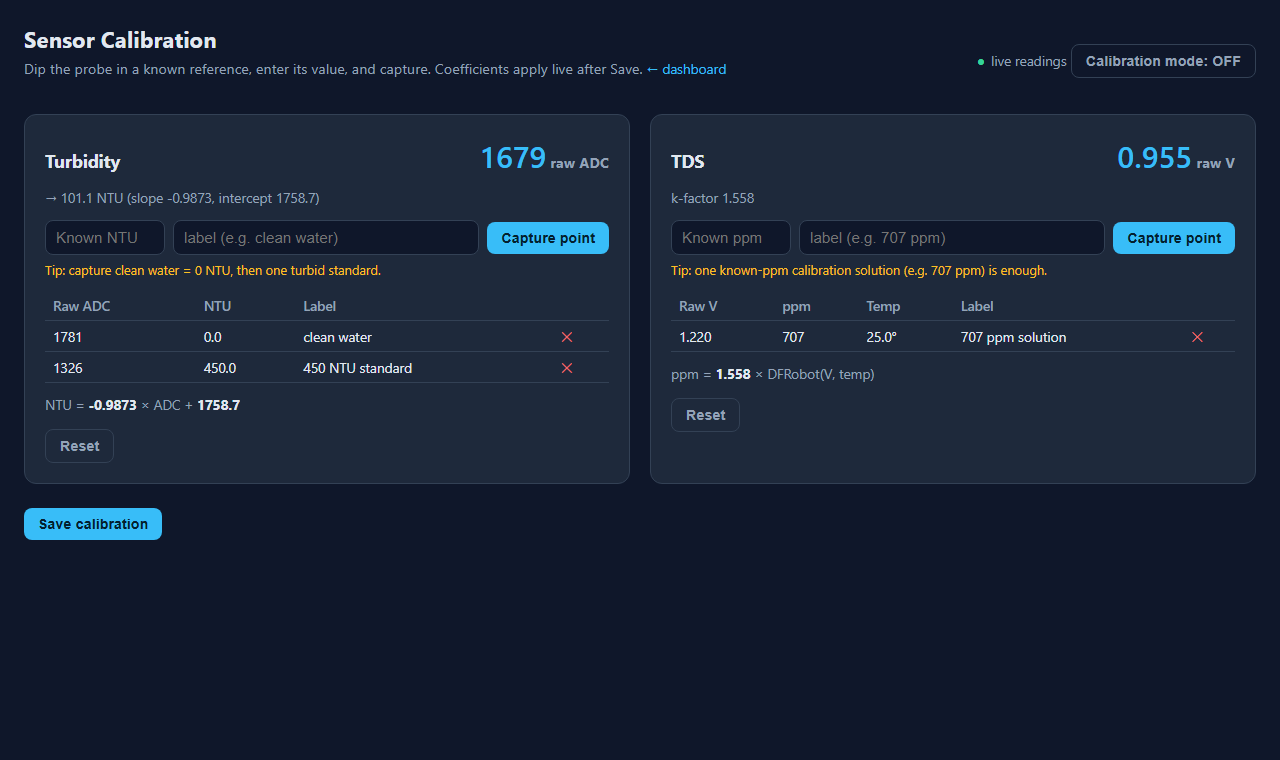
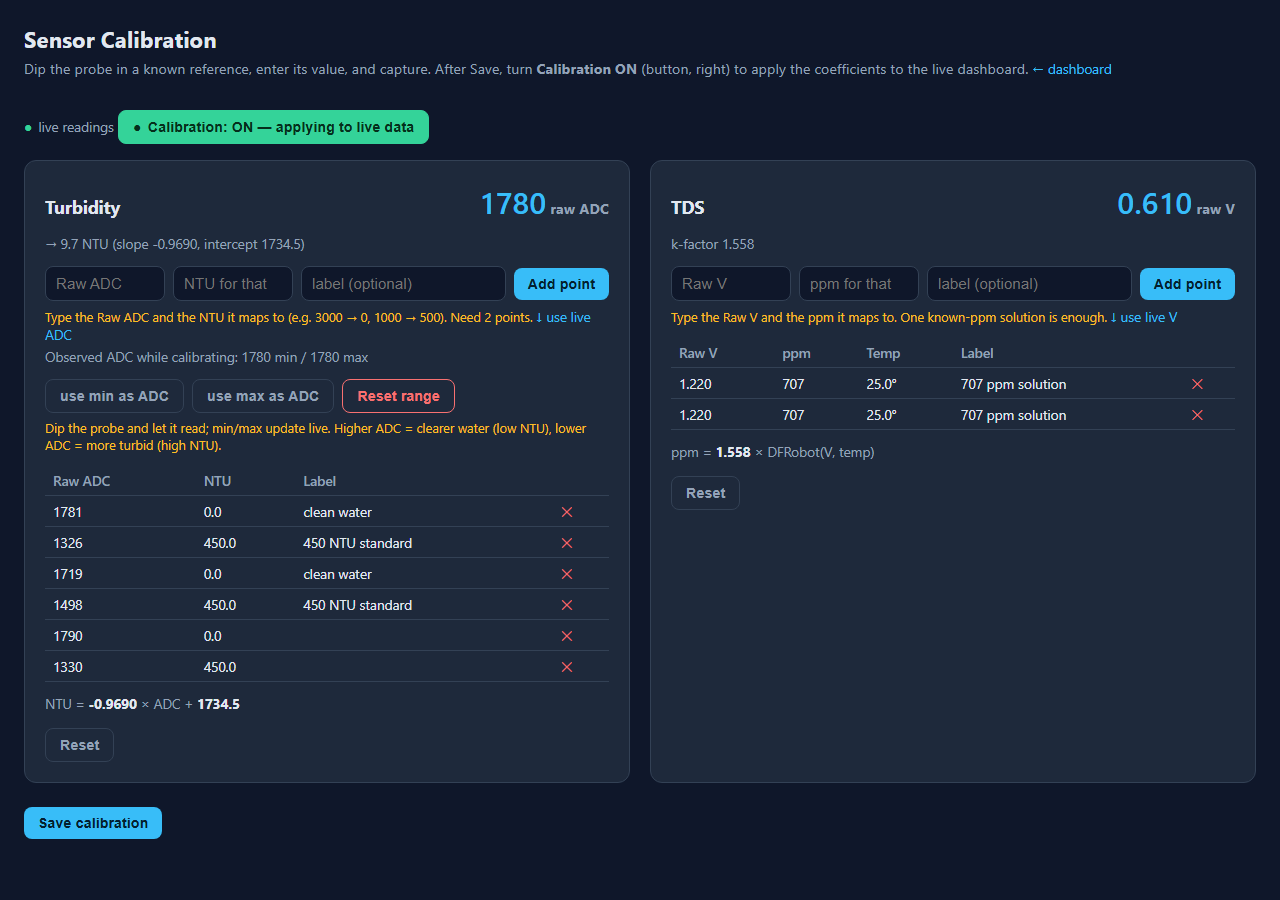
Rewrite readme.md bilingual (EN/TH) for the new Aqua Monitor UI
Replaces the old English-only readme, written for the removed
black-box/vanilla dashboards, with a bilingual English/Thai readme
describing the current single-page Aqua Monitor app: the WQI chart,
clickable detail modal, calibration tab with observed-range capture,
history table, theme toggle, and language switcher.

Also replaces docs/dashboard.png and docs/calibrate.png, which
depicted the old removed UI, with fresh screenshots of the actual
current dashboard and /calibrate page.

diff --git a/readme.md b/readme.md
@@ -1,71 +1,151 @@
-# HydroMonitor — Water Quality Checker
+# HydroMonitor — Aqua Monitor
 
-Real-time water quality monitoring for the Ang Kaew reservoir (Satit CMU, Chiang Mai).
-An ESP32 board reads temperature, turbidity, and dissolved solids from the water and sends
-them to a small server, which shows them live on a web dashboard and logs history to Google
-Sheets.
+Real-time water quality monitoring for the Ang Kaew reservoir, Chiang Mai University. An
+ESP32 board reads temperature, turbidity, and dissolved solids from the water and streams
+them to a live, bilingual (English/Thai) web dashboard.
 
-![Live dashboard](docs/dashboard.png)
+**🇬🇧 [English](#english) · 🇹🇭 [ภาษาไทย](#ภาษาไทย)**
 
-## What it's for
+---
 
-Keeping an eye on water quality continuously instead of taking occasional manual samples.
-A single sensor station in the water reports three readings every 2 seconds:
+## English
 
-- **Temperature** (°C) — DS18B20 probe
-- **Turbidity** (NTU) — how cloudy the water is
-- **TDS** (ppm) — total dissolved solids / rough conductivity
+### What it's for
 
-The dashboard shows the current values with a normal/abnormal indicator and an overall water
-quality score, and a 15-minute history graph. It's built for an educational / community
-monitoring setting where non-experts should be able to glance at a page and know if the water
-looks healthy.
+Continuous water-quality monitoring instead of occasional manual sampling. A sensor
+station in the reservoir reports three raw readings every 2 seconds — **temperature**,
+**turbidity** (cloudiness), and **TDS** (total dissolved solids) — which the backend turns
+into calibrated units, logs to Google Sheets for history, and streams live to a dashboard
+built for an educational / community-monitoring setting.
 
-## How to use
+### How to use
 
-**Run the server** (needs Python 3.11+):
+![Dashboard](docs/dashboard.png)
 
 ```bash
 pip install -r requirements.txt
-python main.py            # on Windows: set PYTHONUTF8=1 first
+cd frontend && npm install && npm run build && cd ..
+python main.py
 ```
 
-Then open **http://localhost:8080/** in a browser — that's the dashboard shown above. On the
-same network, power on the ESP32 station; it finds the server automatically (UDP discovery) and
-readings start flowing within a couple of seconds. With no station connected, the dashboard
-falls back to simulated data so the page stays populated.
+Open **http://localhost:8080/** — that's the dashboard. With no sensor station connected
+yet, the cards show "no readings yet" rather than fake numbers (this project never
+fabricates data — a disconnected sensor should look disconnected, not like the water is
+quietly changing).
 
-**Calibrate the sensors** (do this once per physical sensor, or whenever readings drift):
+The dashboard has a left sidebar with three tabs:
+
+- **Dashboard** — a Water Quality Index (WQI) trend chart with a selectable time range
+  (5 min to 24 hours) and reference lines marking the safe bands; a live 2×2 grid of
+  Temperature / Turbidity / TDS / EC cards, each with a 30-second sparkline. **Click any
+  card** to open a detail view: a bigger chart with numeric point labels and two-sided
+  (too‑high / too‑low) threshold lines, min/avg/max for the selected window, a plain-language
+  explanation of the parameter, and — only when the reading is actually out of range — its
+  likely impact and a recommendation.
+- **Calibration** — turbidity (2‑point) and TDS (single-point k-factor) calibration wired to
+  the sensors themselves: dip the probe in a known reference, capture the reading, save. No
+  firmware reflash needed. Includes an observed min/max range with one-click "use min" /
+  "use max" buttons while a turbidity probe is settling.
+- **History** — a sortable table of past readings with CSV export.
+
+A theme toggle (light/dark) and a language switcher (English ⇄ ไทย) live in the sidebar too.
+The layout is fully responsive — phone, tablet, and desktop all get a layout suited to the
+screen.
+
+A separate lightweight page at **`/calibrate`** offers the same sensor calibration in a
+single self-contained HTML file, useful for calibrating from a phone or a machine that
+doesn't need the full dashboard.
 
 ![Calibration page](docs/calibrate.png)
 
-Open **http://localhost:8080/calibrate**. Dip a probe in a known reference — clean water
-(0 NTU) or a known-ppm solution — type the known value, and click **Capture point**. Turbidity
-needs two points (clean + one turbid standard); TDS needs one known solution. The page shows
-the resulting conversion live; click **Save** and it applies to the dashboard immediately — no
-re-flashing the board. See the `sensor-calibration` skill for the full procedure and the sensor
-math.
-
-## How it works (briefly)
+### How it works, briefly
 
 ```
 ESP32 station ──raw readings──▶  FastAPI server (main.py)  ──live──▶  Web dashboard
  (temp, turbidity ADC,           - converts raw → NTU / ppm            (WebSocket)
   TDS voltage)  every 2s           using saved calibration      ──log──▶ Google Sheets
-      ▲                          - broadcasts to dashboards              (history graph
-      └── finds the server via   - serves the /calibrate page            reads back the
-          UDP broadcast                                                  last 15 min)
+      ▲                          - broadcasts to dashboards              (history, newest
+      └── finds the server via   - serves the dashboard + API            row at the top)
+          UDP broadcast
 ```
 
-- **Station** ([`firmware/esp32/esp32.ino`](firmware/esp32/esp32.ino)) reads the three sensors
-  and POSTs the **raw** values to the server. It discovers the server's IP over the network, so
-  it keeps working if the server PC's IP changes.
-- **Server** ([`main.py`](main.py), FastAPI) turns raw values into real units using the
-  calibration saved in `calibration.json`, pushes them to every open dashboard over a WebSocket,
-  and relays each reading to Google Sheets for history. Calibration lives on the server, so
-  sensors are re-tuned from the web page without touching the firmware.
-- **Dashboard** (`frontend/`, served at `/`) subscribes to the WebSocket and renders the live
-  values, indicators, and history chart.
+- **Station** ([`firmware/esp32/esp32.ino`](firmware/esp32/esp32.ino)) reads the three
+  sensors and POSTs **raw** values to the server, discovering the server's IP automatically
+  over the network so it keeps working if the server's IP changes.
+- **Server** ([`main.py`](main.py), FastAPI) converts raw values to real units using the
+  calibration saved on the server (not the firmware), pushes live readings to every open
+  dashboard, and relays each reading to Google Sheets. No fake-data fallback anywhere in
+  this chain — a real outage looks like an outage.
+- **Dashboard** ([`frontend/`](frontend/) — Vite + React + TypeScript + Tailwind) subscribes
+  to the live stream and renders everything above.
 
-More detail — wiring, the calibration math, the discovery protocol, and the Google Sheets
-relay — is in [`CLAUDE.md`](CLAUDE.md).
+More detail — wiring, the calibration math, the Google Sheets contract, the frontend's
+architecture — is in [`CLAUDE.md`](CLAUDE.md) and [`AQUA_MONITOR_PLAN.md`](AQUA_MONITOR_PLAN.md).
+
+---
+
+## ภาษาไทย
+
+### จุดประสงค์ของโปรเจกต์นี้
+
+ระบบตรวจสอบคุณภาพน้ำแบบต่อเนื่อง แทนการเก็บตัวอย่างด้วยมือเป็นครั้งคราว สถานีเซนเซอร์ในอ่างเก็บน้ำ
+ส่งค่าดิบ 3 ค่าทุก 2 วินาที ได้แก่ **อุณหภูมิ**, **ความขุ่น** (turbidity) และ **TDS**
+(ปริมาณสารละลายทั้งหมด) ซึ่งเซิร์ฟเวอร์จะแปลงเป็นหน่วยที่ปรับเทียบแล้ว บันทึกประวัติลง Google Sheets
+และส่งขึ้นแดชบอร์ดแบบเรียลไทม์ ออกแบบมาเพื่อใช้งานในบริบทการศึกษาและการติดตามของชุมชน
+
+### วิธีใช้งาน
+
+![แดชบอร์ด](docs/dashboard.png)
+
+```bash
+pip install -r requirements.txt
+cd frontend && npm install && npm run build && cd ..
+python main.py
+```
+
+เปิด **http://localhost:8080/** จะพบแดชบอร์ด หากยังไม่ได้เชื่อมต่อสถานีเซนเซอร์ การ์ดแต่ละใบจะแสดง
+"ยังไม่มีข้อมูล" แทนที่จะแสดงตัวเลขปลอม (โปรเจกต์นี้ไม่มีการสร้างข้อมูลปลอมเด็ดขาด — เซนเซอร์ที่ขาดการเชื่อมต่อ
+ควรแสดงผลว่าขาดการเชื่อมต่อจริง ไม่ใช่ทำให้ดูเหมือนน้ำกำลังเปลี่ยนแปลงอยู่)
+
+แดชบอร์ดมีแถบเมนูด้านซ้ายพร้อม 3 แท็บ:
+
+- **แดชบอร์ด** — กราฟแนวโน้มดัชนีคุณภาพน้ำ (WQI) พร้อมตัวเลือกช่วงเวลา (5 นาที ถึง 24 ชั่วโมง)
+  และเส้นอ้างอิงระบุช่วงค่าที่ปลอดภัย, ตารางการ์ดแบบเรียลไทม์ 2×2 สำหรับ อุณหภูมิ / ความขุ่น / TDS / EC
+  แต่ละใบมีกราฟเส้นย่อยของ 30 วินาทีล่าสุด **คลิกที่การ์ดใดก็ได้** เพื่อเปิดมุมมองรายละเอียด: กราฟขนาดใหญ่พร้อมตัวเลข
+  กำกับแต่ละจุดและเส้นเกณฑ์แบบสองด้าน (สูงเกินไป / ต่ำเกินไป), ค่าต่ำสุด/เฉลี่ย/สูงสุดของช่วงเวลาที่เลือก,
+  คำอธิบายค่าพารามิเตอร์แบบเข้าใจง่าย และ — เฉพาะเมื่อค่านั้นอยู่นอกช่วงปกติจริง — ผลกระทบที่อาจเกิดขึ้นพร้อมคำแนะนำ
+- **ปรับเทียบเซนเซอร์** — ปรับเทียบความขุ่น (2 จุด) และ TDS (ค่า k-factor จุดเดียว) เชื่อมกับเซนเซอร์จริง:
+  จุ่มหัววัดในสารละลายอ้างอิงที่ทราบค่า บันทึกค่าที่อ่านได้ แล้วบันทึกผล ไม่ต้องอัปโหลดเฟิร์มแวร์ใหม่
+  มีการติดตามค่าต่ำสุด/สูงสุดที่พบระหว่างการปรับเทียบ พร้อมปุ่ม "ใช้ค่าต่ำสุด" / "ใช้ค่าสูงสุด" กดครั้งเดียวใช้ได้เลย
+- **ประวัติ** — ตารางค่าที่บันทึกไว้ในอดีต เรียงลำดับได้ และส่งออกเป็นไฟล์ CSV
+
+ปุ่มสลับธีม (สว่าง/มืด) และปุ่มเปลี่ยนภาษา (English ⇄ ไทย) อยู่ในแถบเมนูด้านซ้ายเช่นกัน
+หน้าจอปรับตามขนาดอุปกรณ์ได้เต็มรูปแบบ ไม่ว่าจะเป็นมือถือ แท็บเล็ต หรือคอมพิวเตอร์
+
+นอกจากนี้ยังมีหน้าเบา ๆ แยกต่างหากที่ **`/calibrate`** สำหรับปรับเทียบเซนเซอร์ในไฟล์ HTML เดียวจบ
+เหมาะสำหรับปรับเทียบจากมือถือหรือเครื่องที่ไม่จำเป็นต้องเปิดแดชบอร์ดเต็มรูปแบบ
+
+![หน้าปรับเทียบเซนเซอร์](docs/calibrate.png)
+
+### หลักการทำงานโดยสรุป
+
+```
+สถานี ESP32 ──ค่าดิบ──▶  เซิร์ฟเวอร์ FastAPI (main.py)  ──เรียลไทม์──▶  เว็บแดชบอร์ด
+ (อุณหภูมิ, ADC ความขุ่น,      - แปลงค่าดิบ → NTU / ppm                (WebSocket)
+  แรงดัน TDS) ทุก 2 วิ           โดยใช้ค่าปรับเทียบที่บันทึกไว้    ──บันทึก──▶ Google Sheets
+      ▲                       - ส่งกระจายไปยังแดชบอร์ด                  (ประวัติ, แถวล่าสุด
+      └── หาเซิร์ฟเวอร์ผ่าน       - ให้บริการแดชบอร์ด + API                 อยู่บนสุด)
+          การกระจายสัญญาณ UDP
+```
+
+- **สถานีเซนเซอร์** ([`firmware/esp32/esp32.ino`](firmware/esp32/esp32.ino)) อ่านค่าจากเซนเซอร์ทั้ง 3 ตัว
+  แล้วส่งค่า **ดิบ** ไปยังเซิร์ฟเวอร์ โดยค้นหา IP ของเซิร์ฟเวอร์เองผ่านเครือข่าย จึงยังทำงานต่อได้แม้ IP
+  ของเซิร์ฟเวอร์จะเปลี่ยน
+- **เซิร์ฟเวอร์** ([`main.py`](main.py), FastAPI) แปลงค่าดิบเป็นหน่วยจริงโดยใช้ค่าปรับเทียบที่บันทึกไว้ที่เซิร์ฟเวอร์
+  (ไม่ใช่ที่เฟิร์มแวร์) ส่งค่าล่าสุดไปยังทุกแดชบอร์ดที่เปิดอยู่ และส่งต่อแต่ละค่าไปบันทึกที่ Google Sheets
+  ไม่มีการสร้างข้อมูลปลอมในทุกจุดของระบบ — เมื่อเกิดปัญหาจริงจะแสดงผลตรงตามความเป็นจริง
+- **แดชบอร์ด** ([`frontend/`](frontend/) — Vite + React + TypeScript + Tailwind)
+  รับข้อมูลแบบเรียลไทม์และแสดงผลทั้งหมดข้างต้น
+
+รายละเอียดเพิ่มเติม — การเดินสาย, สูตรการปรับเทียบ, รูปแบบข้อมูลของ Google Sheets, สถาปัตยกรรมของฝั่งหน้าเว็บ —
+อยู่ใน [`CLAUDE.md`](CLAUDE.md) และ [`AQUA_MONITOR_PLAN.md`](AQUA_MONITOR_PLAN.md)
